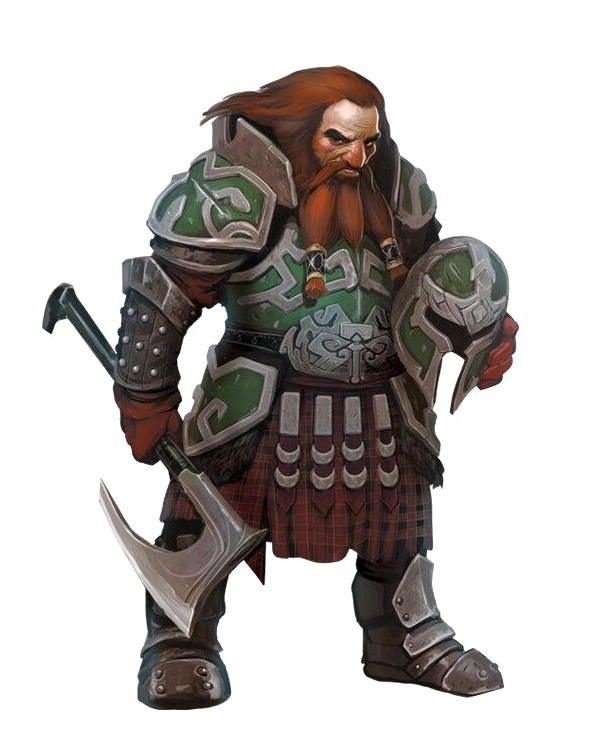
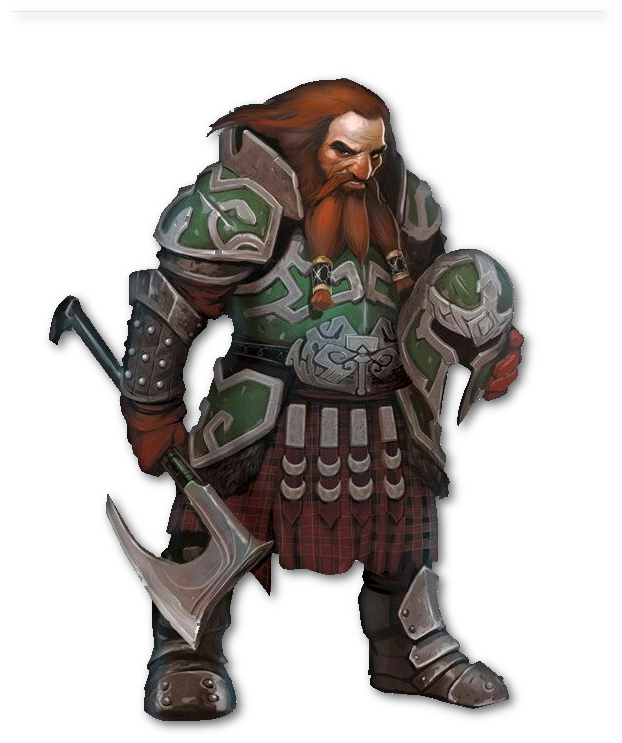
new perso

Changed region(s): [[0.06, 0.0622, 0.87, 0.9946]]

diff --git a/CSS/Style.css b/CSS/Style.css
@@ -176,7 +176,7 @@ img.jeux{
 
 .epee{
     top: 115px;
-    left: 82px;
+    left: 55px;
     position: relative;
     width: 97px;
     height: 70px;
@@ -184,7 +184,7 @@ img.jeux{
 
 .bouclier{
     top: 230px;
-    left: -20px;
+    left: -47px;
     position: relative;
     width: 97px;
     height: 70px;
@@ -200,7 +200,7 @@ img.jeux{
 
 .haut{
     top: 115px;
-    left: 25px;
+    left: 45px;
     position: relative;
     width: 97px;
     height: 70px;
@@ -208,7 +208,7 @@ img.jeux{
 
 .botte{
     top: 230px;
-    left: -77px;
+    left: -57px;
     position: relative;
     width: 97px;
     height: 70px;
